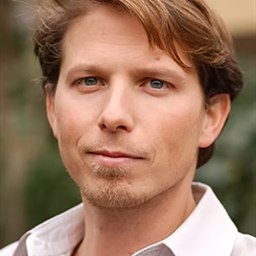
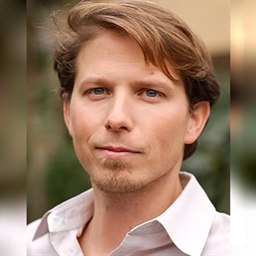
Add Savina Carluccio's portrait; even out head sizes
Both industry portraits are narrow enough that a plain square crop is
bounded by the image width, leaving the head filling ~85% of the frame
against ~66% on the other cards. Composite each onto a canvas wider than
the photo, with the sides filled by a heavily downscaled copy of the
same image, so the head occupies a matching share and the face still
lands at the circle's centre. The fill only ever shows at the very edge
of the circle, where both backgrounds are already out of focus.

Johannes's file changed behind the same name, so his URL goes to v=2.

diff --git a/index.html b/index.html
@@ -448,14 +448,14 @@ footer p{color:#93A1A4;font-size:.92rem;max-width:42ch;margin:16px 0 0;}
             <p class="country">Czech Republic</p>
           </div>
           <div class="member">
-            <img class="photo" src="assets/people/johannes-kisser.jpg?v=1" alt="" width="64" height="64" loading="lazy">
+            <img class="photo" src="assets/people/johannes-kisser.jpg?v=2" alt="" width="64" height="64" loading="lazy">
             <h3>Johannes Kisser</h3>
             <div class="role">Committee member</div>
             <p class="inst">Rhizoscope L.P.</p>
             <p class="country">Greece</p>
           </div>
           <div class="member">
-            <div class="ini">SC</div>
+            <img class="photo" src="assets/people/savina-carluccio.jpg?v=1" alt="" width="64" height="64" loading="lazy">
             <h3>Savina Carluccio</h3>
             <div class="role">Committee member</div>
             <p class="inst">International Coalition for Sustainable Infrastructure</p>
